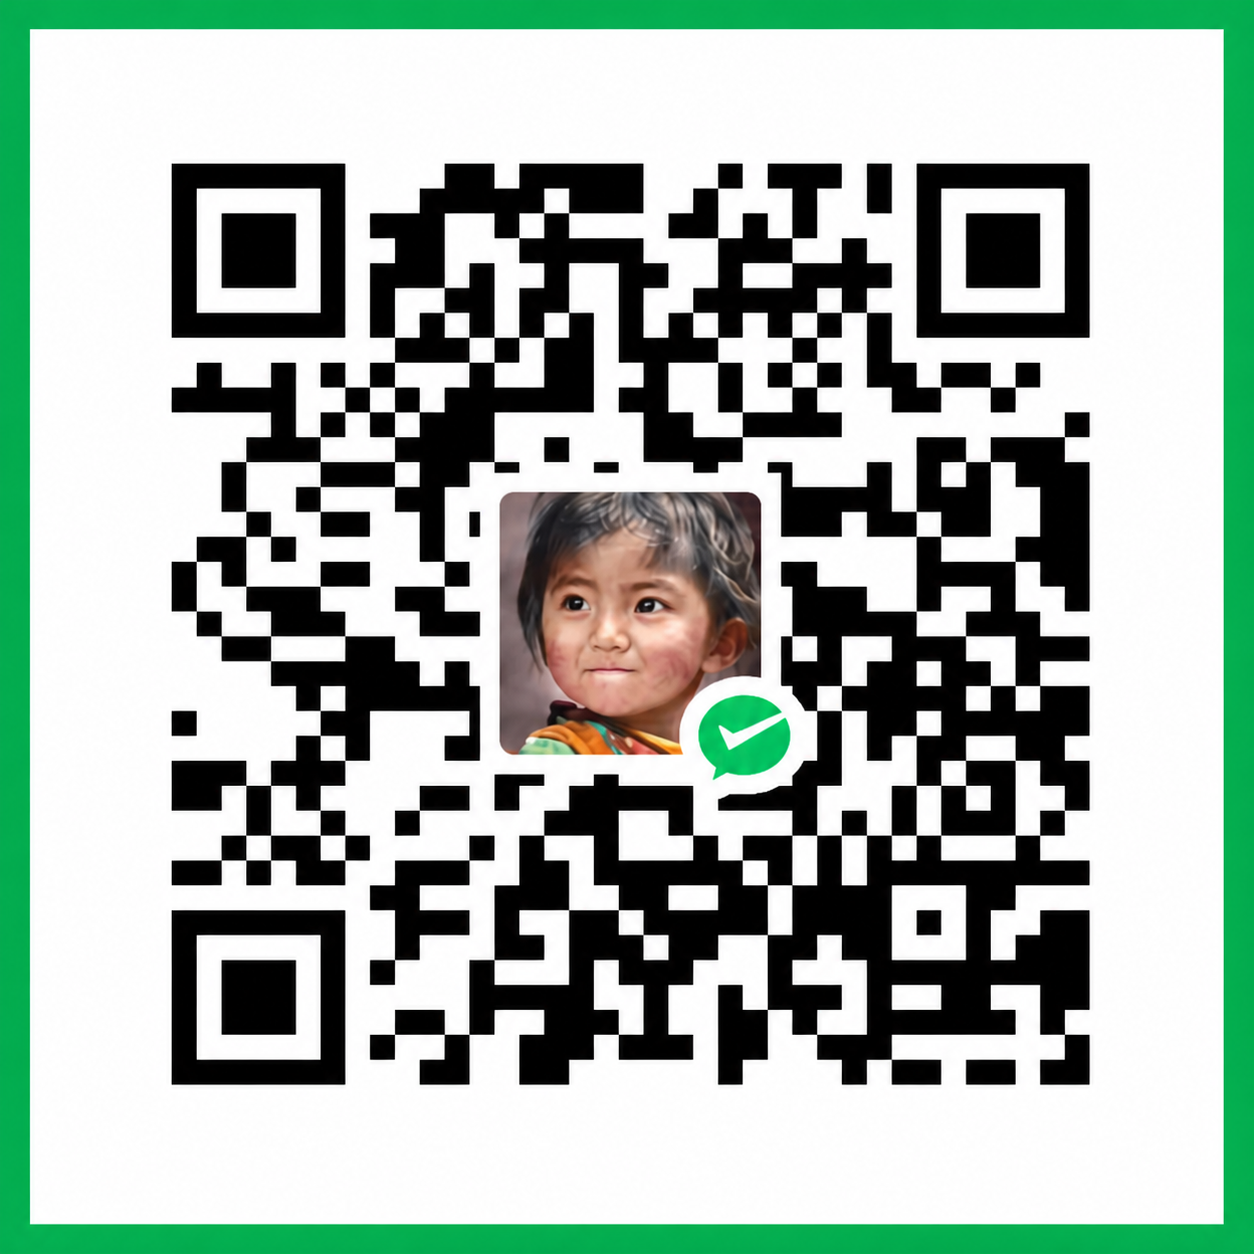
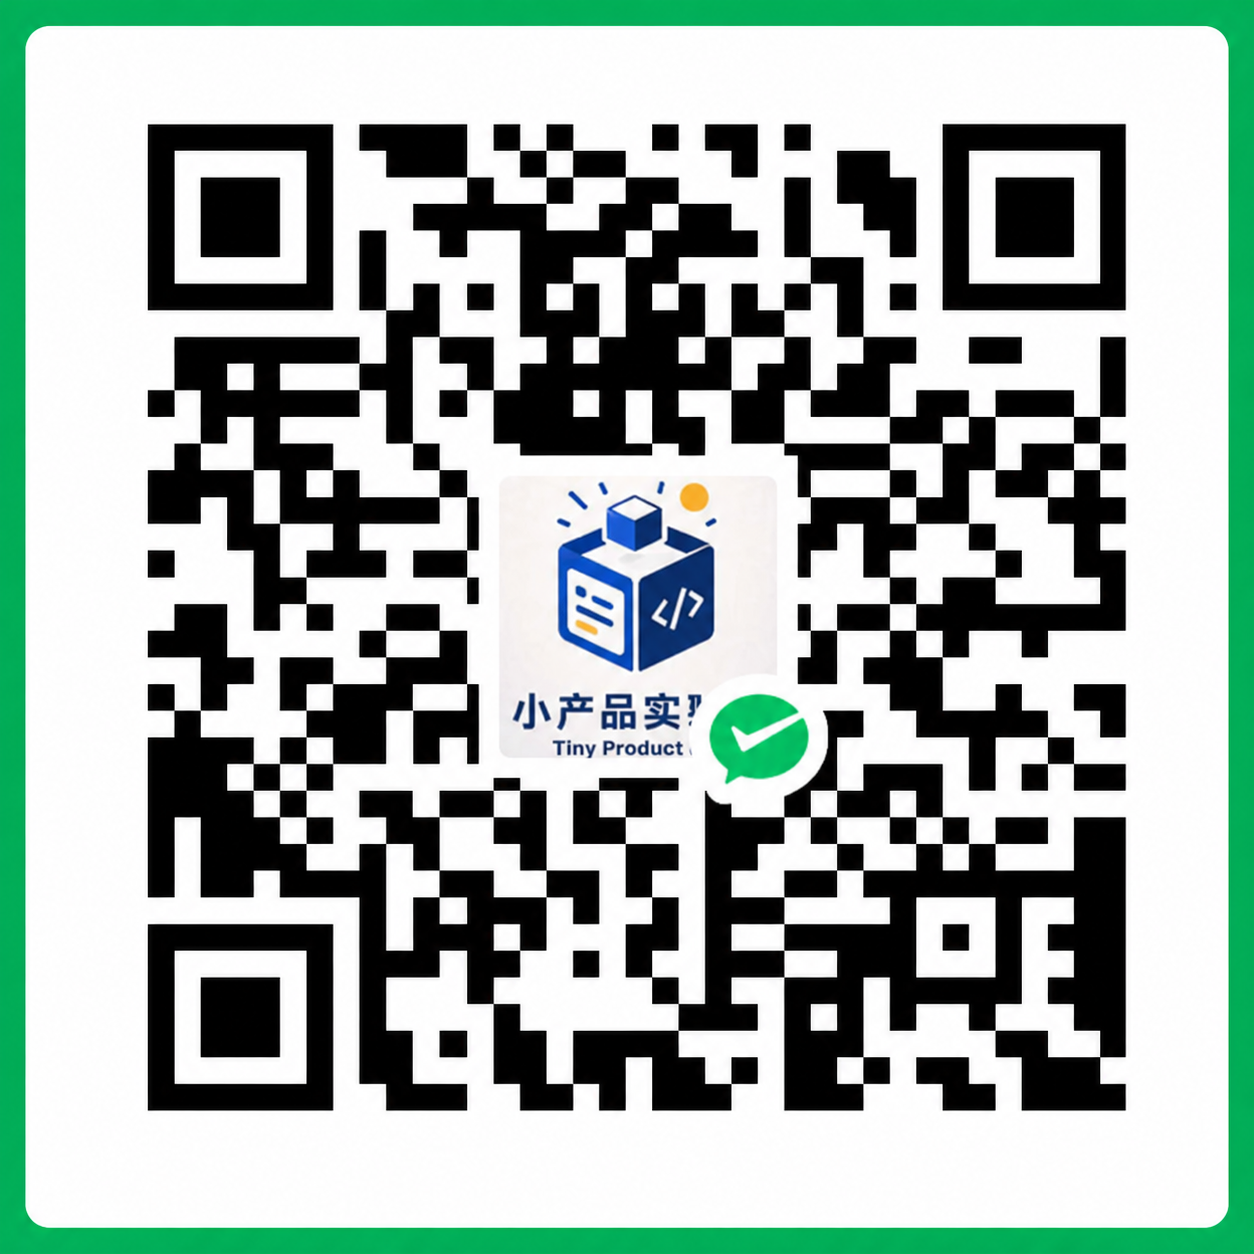
更新支持二维码头像与名称

diff --git a/static/index.html b/static/index.html
@@ -621,8 +621,8 @@
       <p data-zh="如果 unmark 帮到了你，可以自愿支持项目维护与服务器费用。" data-en="If unmark helped you, you can voluntarily support maintenance and server costs.">如果 unmark 帮到了你，可以自愿支持项目维护与服务器费用。</p></div>
       <button class="support-close" id="support-close" aria-label="Close">×</button></div>
     <div class="support-grid">
-      <div class="support-method"><h3 data-zh="微信支付" data-en="WeChat Pay">微信支付</h3><img src="/assets/support-wechat.png?v=2" data-zh-alt="微信支持二维码" data-en-alt="WeChat support QR code" alt="微信支持二维码"></div>
-      <div class="support-method"><h3 data-zh="支付宝" data-en="Alipay">支付宝</h3><img src="/assets/support-alipay.png?v=2" data-zh-alt="支付宝支持二维码" data-en-alt="Alipay support QR code" alt="支付宝支持二维码"></div>
+      <div class="support-method"><h3 data-zh="微信支付" data-en="WeChat Pay">微信支付</h3><img src="/assets/support-wechat.png?v=3" data-zh-alt="微信支持二维码" data-en-alt="WeChat support QR code" alt="微信支持二维码"></div>
+      <div class="support-method"><h3 data-zh="支付宝" data-en="Alipay">支付宝</h3><img src="/assets/support-alipay.png?v=3" data-zh-alt="支付宝支持二维码" data-en-alt="Alipay support QR code" alt="支付宝支持二维码"></div>
     </div>
     <p class="support-note" data-zh="完全自愿，不影响任何功能。请在付款前核对收款人信息。" data-en="Entirely optional and never affects any feature. Verify the recipient before paying.">完全自愿，不影响任何功能。请在付款前核对收款人信息。</p>
   </div>
